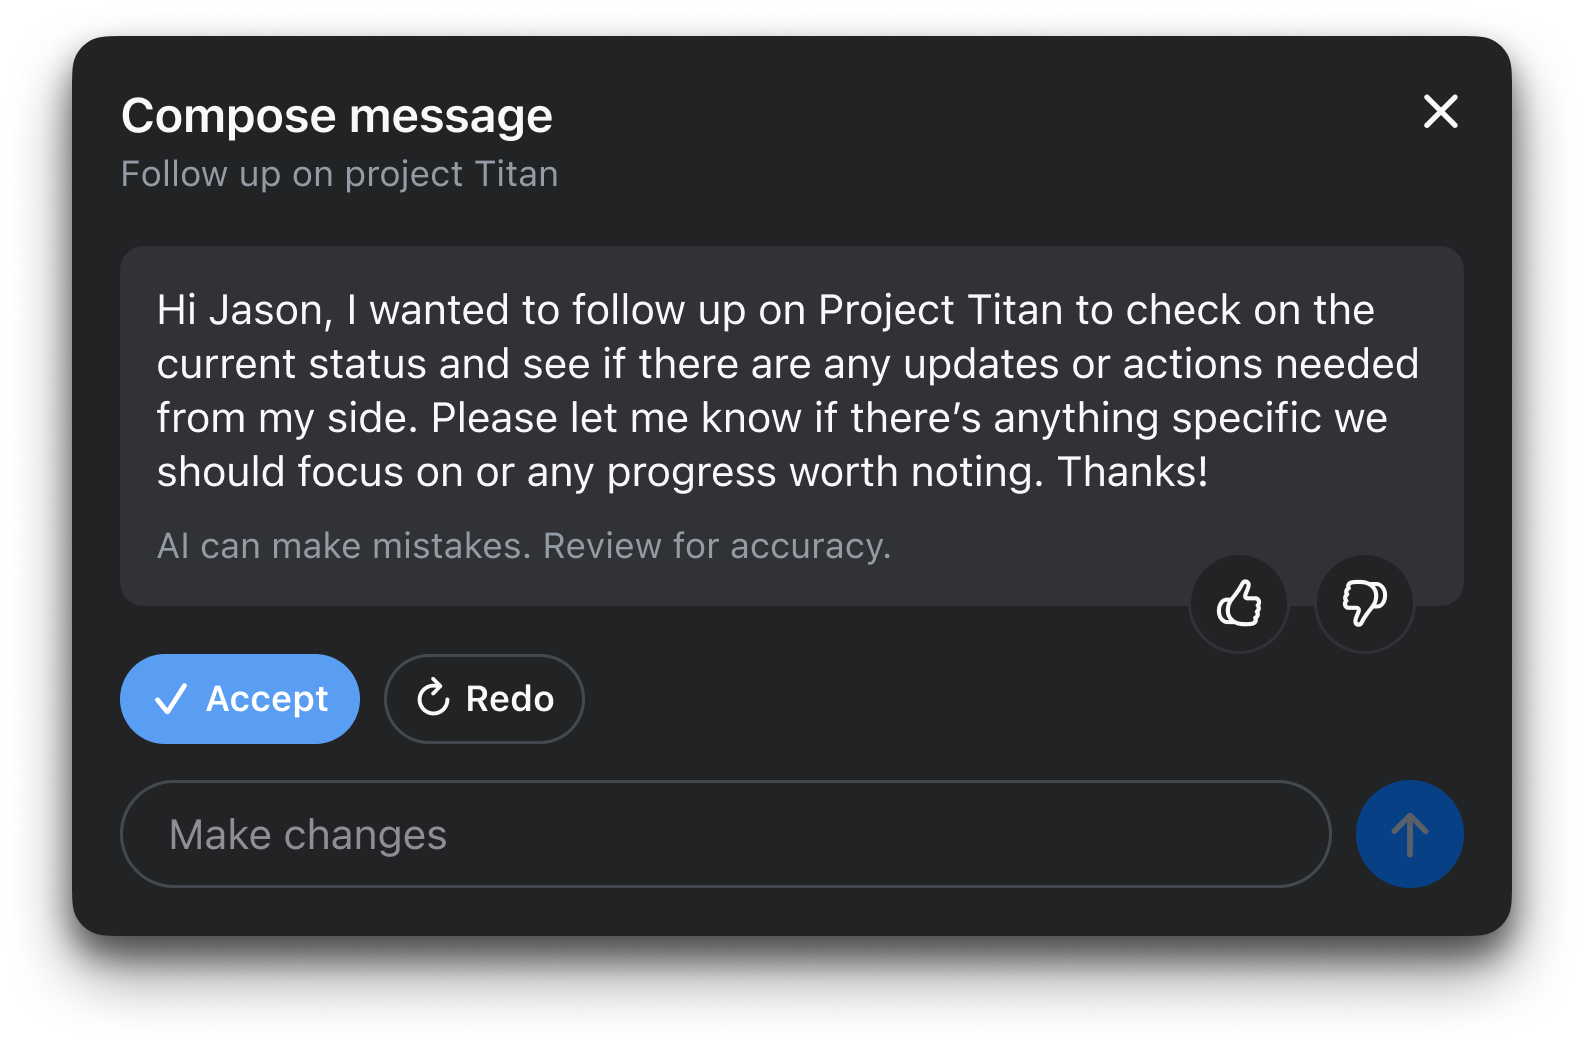
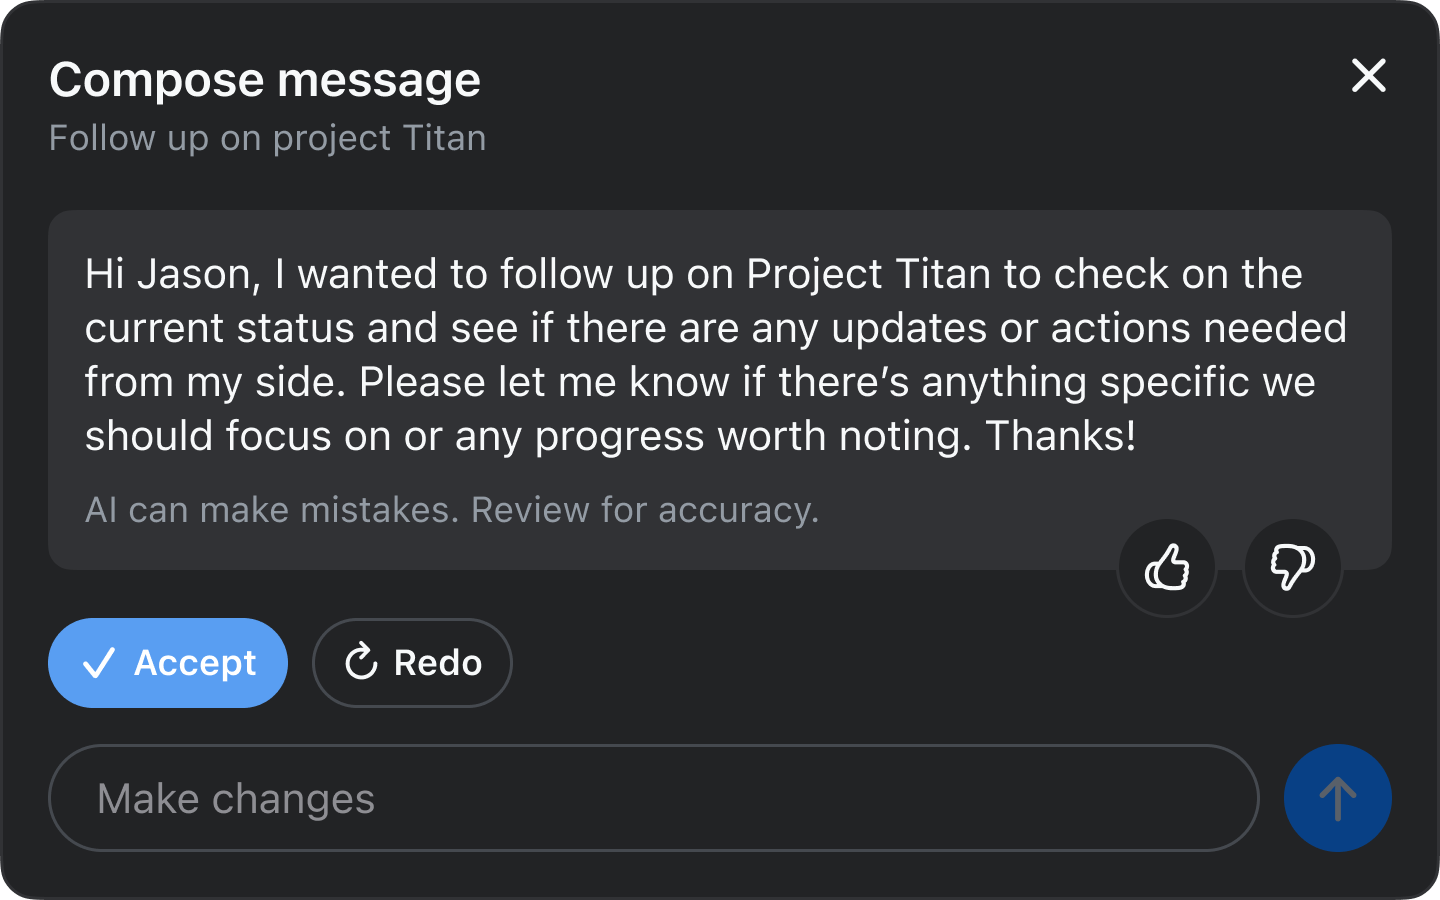
Set max width to 480px for summarize and compose images

diff --git a/styles.css b/styles.css
@@ -503,7 +503,7 @@ html[data-theme-transitioning] .footer::after {
 }
 
 .showcase-image-group .showcase-image {
-  max-width: min(1024px, calc(100vw - var(--sidebar-width) - var(--spacing-page) * 3 - 80px));
+  max-width: min(480px, calc(100vw - var(--sidebar-width) - var(--spacing-page) * 3 - 80px));
   max-height: min(384px, calc((100vh - var(--spacing-page) * 2 - 80px) / 2 - 20px));
 }
 
